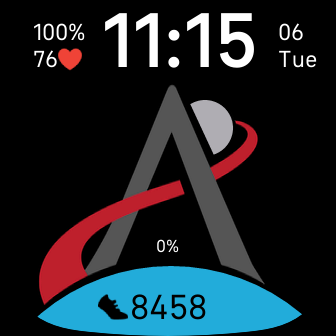
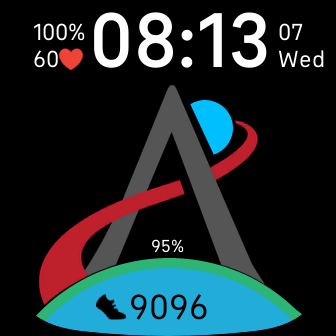
Add more info into the readme. Ready for commit

diff --git a/Readme.md b/Readme.md
@@ -1,7 +1,7 @@
 [![main](https://github.com/kzarms/Artemis1/actions/workflows/pipeline.yaml/badge.svg)](https://github.com/kzarms/Artemis1/actions/workflows/pipeline.yaml)
 
 # Artemis I
-Inspired by NASA Mission [Artemis](https://www.nasa.gov/specials/artemis/), I created a clock for Fitbit Sense and Fitbit Versa.
+Inspired by NASA Mission [Artemis](https://www.nasa.gov/specials/artemis/), I created a clockface for Fitbit Sense and Fitbit Versa.
 
 <img src="./docs/Screenshot1.png" />  <img src="./docs/Screenshot2.png" />
 
@@ -14,4 +14,9 @@ This is an digical clock with following sensor information:
 + Floors
 + Distance
 
-In additional you can set period in time and see a progress. For example, time till the deadline or report preparation.
+You can enable or disable tiny animation and set the Moon color.
+In settings you can establish your time period and monitor it on the watch.
+For example you can set the start time of the [rocket launch](https://www.nasa.gov/artemis-1) and end time as the rocket desending.
+
+## License
+This project is open source, and conforms to the [MIT License](./LICENSE)
